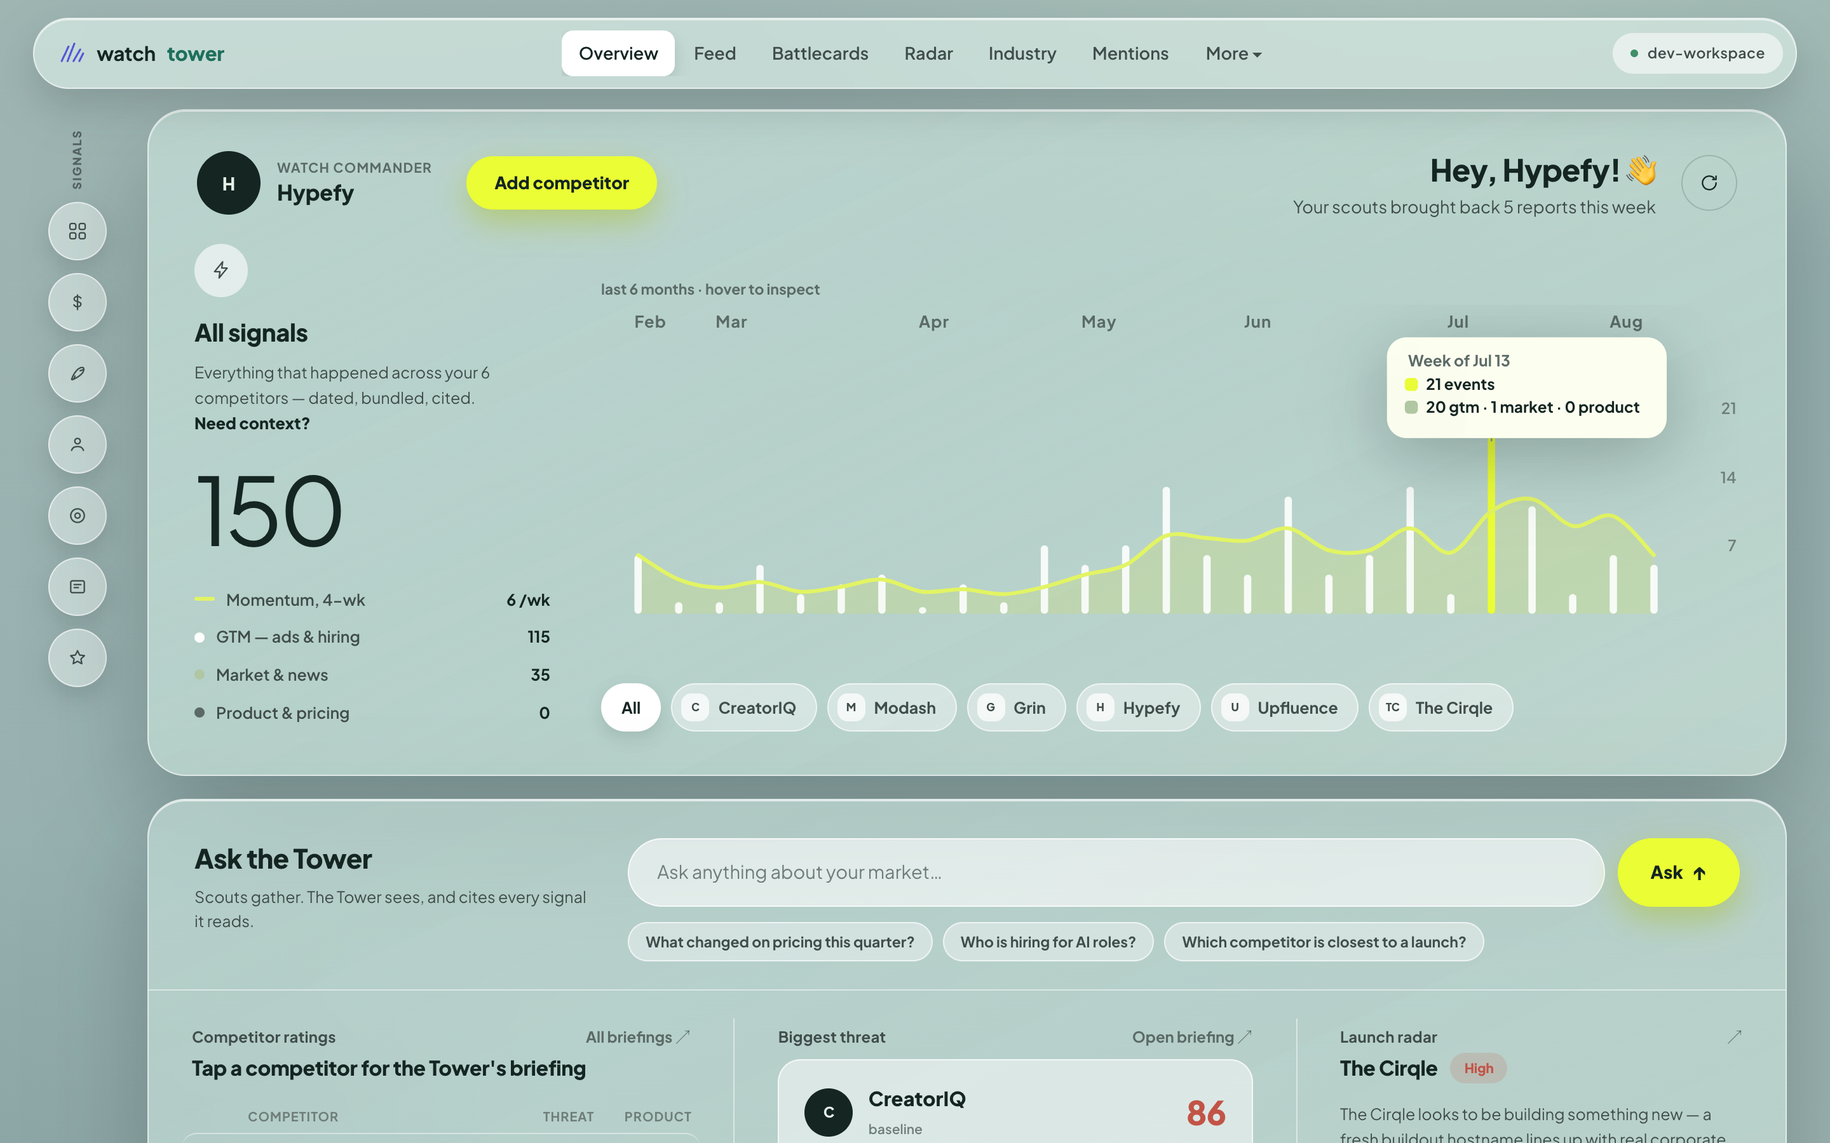
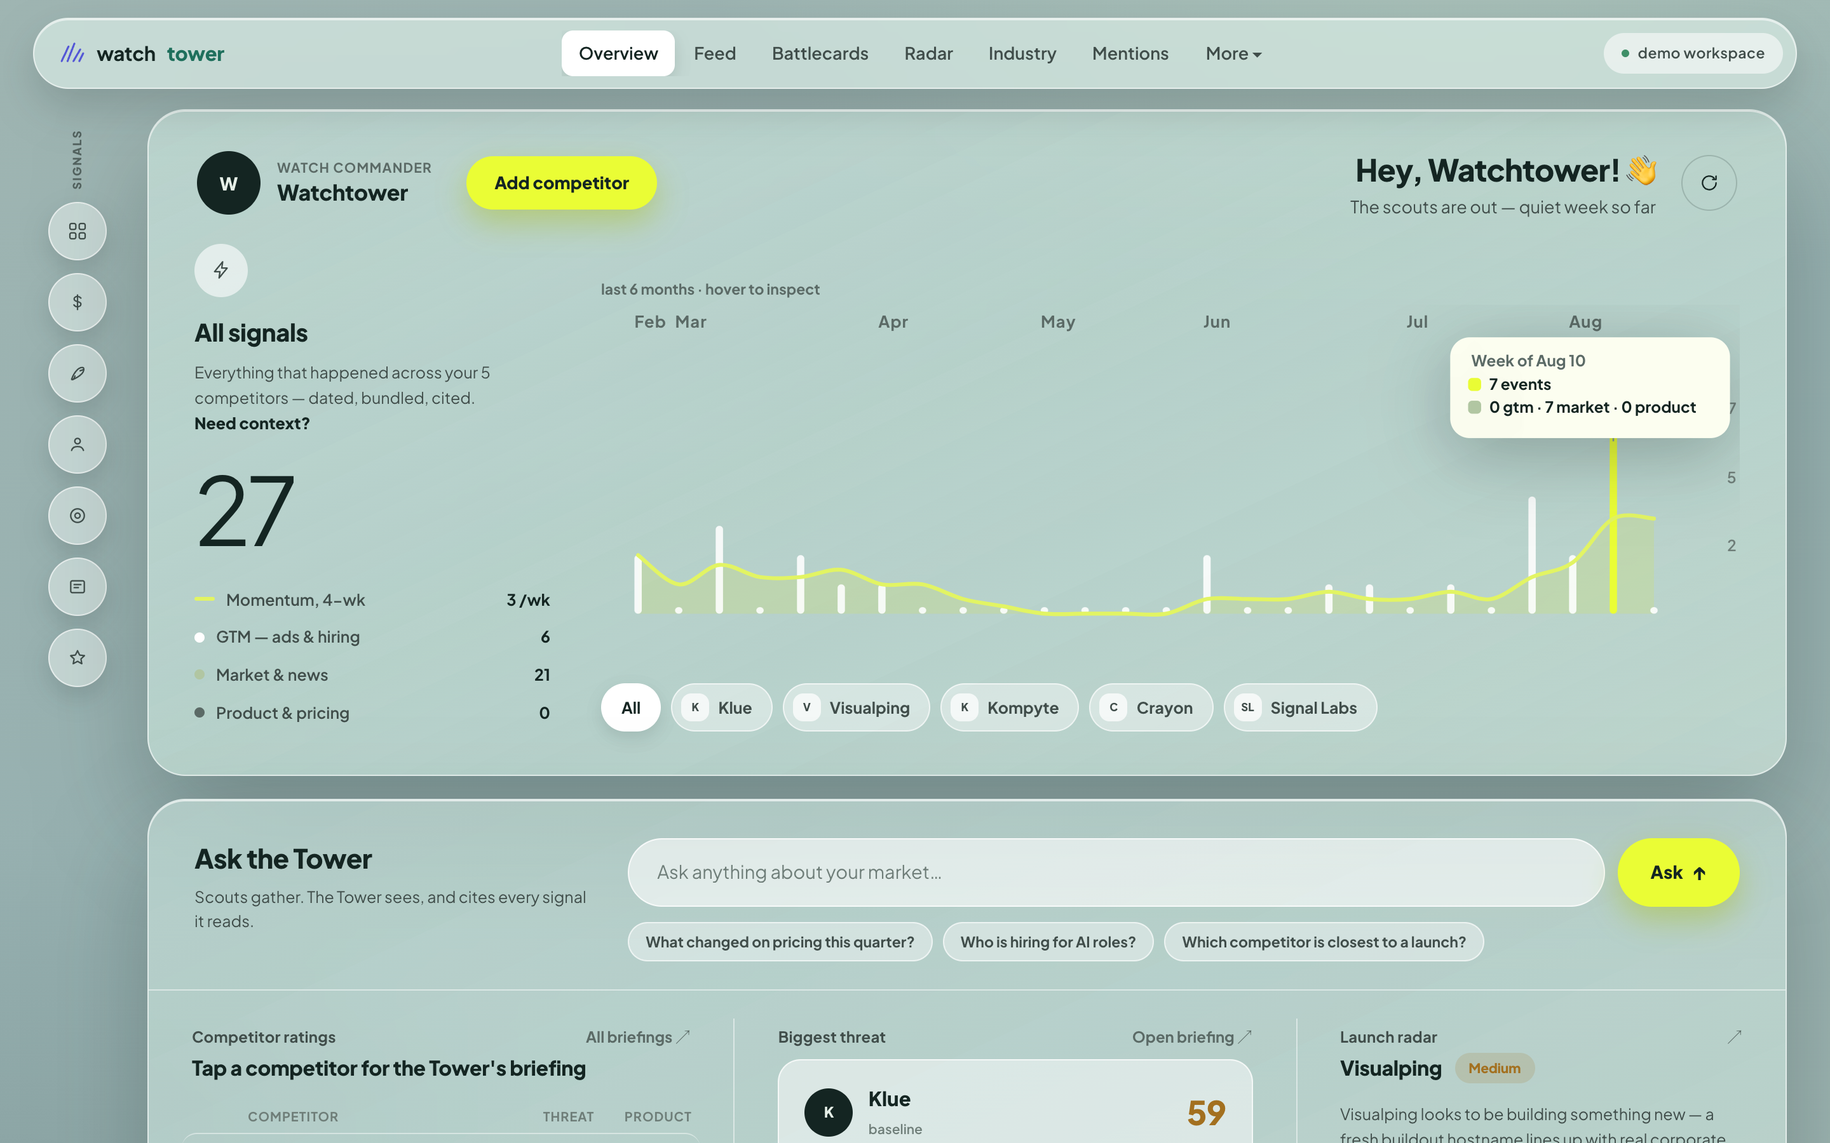
redesign: homepage leads with the product, examples are our own market
Feedback round:
- Headline: 'they' now stays with the rotating phrase (.wt-keep nowrap)
  so the line breaks BEFORE it, instead of orphaning 'they' above the
  highlight. Hero copy width pinned so the block is always two lines
  whichever phrase is showing.
- Hero dek was a near-restatement of the band heading below it. Dek is
  now the promise (one briefing, what changed, why it matters, what to
  do); the band is the coverage claim. They no longer say the same thing.
- Coverage reframed from a channel list to things that actually happen:
  'they quietly drop a price', 'they advertise a feature they have not
  launched', 'a hostname appears nobody was meant to see yet'. No
  enumerated channel inventory — deliberately, given who is reading.
- The product dashboard is now the hero image; the bespoke signal panel
  moved down to its own section where it supports the bundling point.
- Battlecards are no longer a screenshot: BattlecardDemo is an
  interactive three-card switcher (Kompyte / Signal Labs / Visualping)
  rendering the same reads the product generated for our workspace.
- Every example is now our own industry. The watch log and the proof
  beats were still the Hypefy/GRIN set; the story is now Kompyte's
  404 careers page plus its missing ad account resolving to one cause,
  which is a better demonstration anyway — it reasons from absences.
- Screenshots regenerated against the demo workspace (they were still
  Hypefy), with the demo banner suppressed in the shot.

diff --git a/app/(marketing)/page.tsx b/app/(marketing)/page.tsx
@@ -1,42 +1,44 @@
 import Link from 'next/link';
 import RotatingTail from './RotatingTail';
+import BattlecardDemo from './BattlecardDemo';
 
 export const metadata = {
   title: 'Watchtower · Know the moment your competitors move.',
   description:
-    'Watchtower reads everything your competitors do in public and tells you what it means. Actionable competitive intelligence, every fact cited. From $99/mo.',
+    'Watchtower turns everything your competitors do in public into one briefing that says what it means and what to do. Every fact cited. From $99/mo.',
 };
 
-// The watch panel in the hero. Real signal types, worded the way the feed
-// words them — this is the product's own voice, not marketing copy about it.
+// Real lines from our own workspace, worded the way the feed words them.
+// These are our actual competitors, not a borrowed example set.
 const WATCH = [
-  { t: '02:14', text: 'new hostname: launch.grin.co', tag: 'buildout' },
-  { t: '06:07', text: 'grin.co/pricing changed · self-serve tiers live', tag: 'pricing' },
-  { t: '06:11', text: 'Upfluence: 66 new ads · 43 Google · 23 LinkedIn', tag: 'ads' },
-  { t: '06:48', text: 'CreatorIQ: 25 open roles · enterprise CS cluster', tag: 'hiring' },
-  { t: '07:30', text: '“Grin is mid-transition, tearing out the old model”', tag: 'the tower', hot: true },
+  { t: '02:14', text: '255 preview hostnames observed on klue.com', tag: 'buildout' },
+  { t: '06:07', text: 'crayon.co is hiring again · 3 roles opened', tag: 'hiring' },
+  { t: '06:11', text: 'Visualping: ~11 Google ads running', tag: 'ads' },
+  { t: '06:48', text: 'kompyte.com/careers now returns 404', tag: 'signal' },
+  { t: '07:30', text: '“Kompyte is absorbed into Semrush, and running on its distribution”', tag: 'the tower', hot: true },
 ];
 
+// The story is ours, and it is built from two absences — the kind of thing a
+// feature-comparison tool would never notice.
 const BEATS = [
-  { k: '02:14', h: 'A hostname appears', p: 'launch.grin.co shows up on a public certificate log. On its own, it is noise.' },
-  { k: 'on file', h: 'Context is already there', p: 'Grin’s own January press: self-serve access, month-to-month, enterprise-only model over.' },
-  { k: '07:30', h: 'The Tower connects them', p: 'One read, written for you: Grin is mid-transition, and here is the crack to sell into.' },
+  { k: '06:48', h: 'A careers page disappears', p: 'kompyte.com/careers starts returning 404. On its own, that is nothing. Sites get reorganised.' },
+  { k: 'also', h: 'And there is no ad account', p: 'Zero advertiser accounts on Google or LinkedIn either, for a company that plainly still sells.' },
+  { k: '07:30', h: 'The Tower connects them', p: 'Two absences with one cause: Kompyte was absorbed into Semrush. You are competing with a bundle, not a roadmap.' },
 ];
 
 export default function Home() {
   return (
     <>
-      {/* ---------- hero: the sentence finishes itself ---------- */}
+      {/* ---------- hero: headline, then the product itself ---------- */}
       <section className="wt-hero">
-        <div className="wrap wt-hero-grid">
+        <div className="wrap">
           <div className="wt-hero-copy">
             <span className="wt-kicker"><i />Scouts gather. The Tower sees.</span>
             <h1 className="wt-h1">
-              Know the moment they{' '}
-              <RotatingTail />
+              Know the moment <span className="wt-keep">they <RotatingTail /></span>
             </h1>
             <p className="wt-dek">
-              Watchtower reads everything your competitors do in public, then tells you what it means.
+              One briefing every morning that says what changed, why it matters, and what to do about it. Every fact cited.
             </p>
             <div className="wt-cta">
               <Link href="/sign-up" className="btn btn-primary btn-lg">Start free</Link>
@@ -44,41 +46,46 @@ export default function Home() {
             </div>
             <p className="wt-note">From $99/mo · no card required · the demo needs no account</p>
           </div>
+        </div>
 
-          <aside className="wt-panel" aria-label="A live morning of Watchtower signals">
-            <div className="wt-panel-head">
-              <span className="mono">the watch</span>
-              <span className="wt-live"><i />live</span>
-            </div>
-            {WATCH.map((w, i) => (
-              <div className={`wt-row${w.hot ? ' hot' : ''}`} key={w.t} style={{ animationDelay: `${0.4 + i * 0.45}s` }}>
-                <span className="wt-row-t mono">{w.t}</span>
-                <span className="wt-row-x">{w.text}</span>
-                <span className="wt-row-g mono">{w.tag}</span>
-              </div>
-            ))}
-          </aside>
+        <div className="wrap wt-hero-shot">
+          <div className="wt-shot">
+            {/* eslint-disable-next-line @next/next/no-img-element */}
+            <img src="/screenshots/overview.png" alt="The Watchtower dashboard: market activity, competitor ratings, biggest threat and launch radar" />
+          </div>
         </div>
       </section>
 
-      {/* ---------- everything, said once, conversationally ---------- */}
+      {/* ---------- what it catches, as things that happen ---------- */}
       <section className="wt-band">
         <div className="wrap">
-          <h2 className="wt-band-h">
-            We watch everything they do in public. You just get told what matters.
-          </h2>
+          <h2 className="wt-band-h">You never watch a channel. You just get told what happened.</h2>
           <p className="wt-band-p">
-            Their prices, their ads, their job board, their reviews, their press, the pages they quietly
-            put up before a launch, and what their founders promised on a podcast. You never pick a channel.
+            They quietly drop a price. They start advertising a feature they have not launched yet. They post four
+            senior roles in one week. They pick up a bad review that names you. Their founder promises something
+            on a podcast. A hostname appears that nobody was meant to see yet.
           </p>
         </div>
       </section>
 
-      {/* ---------- proof: one real morning ---------- */}
+      {/* ---------- the artifact, interactive ---------- */}
+      <section className="wt-card-sec" id="platform">
+        <div className="wrap">
+          <span className="wt-eyebrow">The artifact</span>
+          <h2 className="wt-h2">Then it writes how you win.</h2>
+          <p className="wt-lede">
+            One briefing per competitor, written against your positioning. These are real cards from our own
+            workspace, watching our own market. Switch between them.
+          </p>
+          <BattlecardDemo />
+        </div>
+      </section>
+
+      {/* ---------- proof: two absences, one conclusion ---------- */}
       <section className="wt-proof" id="proof">
         <div className="wrap">
-          <span className="wt-eyebrow">A real morning</span>
-          <h2 className="wt-h2">One hostname appeared. Watchtower told the whole story.</h2>
+          <span className="wt-eyebrow">A real morning, from our own workspace</span>
+          <h2 className="wt-h2">Nothing happened. That was the story.</h2>
           <div className="wt-beats">
             {BEATS.map((b) => (
               <div className="wt-beat" key={b.h}>
@@ -94,22 +101,30 @@ export default function Home() {
         </div>
       </section>
 
-      {/* ---------- the artifact ---------- */}
-      <section className="wt-card-sec" id="platform">
-        <div className="wrap">
-          <div className="wt-card-copy">
-            <span className="wt-eyebrow">The artifact</span>
-            <h2 className="wt-h2">Then it writes how you win.</h2>
+      {/* ---------- the raw signals, further down where they belong ---------- */}
+      <section className="wt-signals">
+        <div className="wrap wt-signals-grid">
+          <div>
+            <span className="wt-eyebrow">Underneath it</span>
+            <h2 className="wt-h2">Bundled, dated, cited.</h2>
             <p className="wt-lede">
-              One briefing per competitor, written against your positioning, refreshed every morning. Your reps
-              open it and know what to say.
+              Sixty-six ads is one card, not sixty-six alerts. Five articles about the same raise is one story.
+              You read what mattered, not everything that was detected.
             </p>
           </div>
-          <div className="wt-shot">
-            {/* eslint-disable-next-line @next/next/no-img-element */}
-            <img src="/screenshots/battlecards.png" alt="A Watchtower battlecard: the Tower's read, their strengths, their vulnerabilities, and how you win" />
-          </div>
-          <p className="wt-cap">A real battlecard, from a workspace tracking five real competitors right now.</p>
+          <aside className="wt-panel" aria-label="A morning of Watchtower signals">
+            <div className="wt-panel-head">
+              <span className="mono">the watch</span>
+              <span className="wt-live"><i />live</span>
+            </div>
+            {WATCH.map((w, i) => (
+              <div className={`wt-row${w.hot ? ' hot' : ''}`} key={w.t} style={{ animationDelay: `${0.1 + i * 0.14}s` }}>
+                <span className="wt-row-t mono">{w.t}</span>
+                <span className="wt-row-x">{w.text}</span>
+                <span className="wt-row-g mono">{w.tag}</span>
+              </div>
+            ))}
+          </aside>
         </div>
       </section>
 

diff --git a/app/(marketing)/marketing.css b/app/(marketing)/marketing.css
@@ -60,8 +60,14 @@
 
 /* ---------- hero: the sentence finishes itself ---------- */
 .wt-hero{padding:56px 0 86px}
-.wt-hero-grid{display:grid;grid-template-columns:1.12fr .88fr;gap:50px;align-items:center}
-@media(max-width:940px){.wt-hero-grid{grid-template-columns:1fr;gap:44px}}
+/* Wide enough that "they <phrase>" always fits on one line, narrow enough
+   that the whole headline never collapses to one — so the block stays two
+   lines tall no matter which phrase is showing. */
+.wt-hero-copy{max-width:640px}
+.wt-hero-shot{margin-top:46px}
+/* "they <rotating phrase>" stays together, so the line breaks BEFORE "they"
+   rather than orphaning it above the highlight. */
+.wt-keep{white-space:nowrap}
 .wt-kicker{display:inline-flex;align-items:center;gap:9px;font-size:11.5px;letter-spacing:.1em;text-transform:uppercase;font-weight:800;color:var(--a-teal);background:var(--a-teal-wash);padding:7px 15px;border-radius:999px;margin-bottom:24px}
 .wt-kicker i{width:7px;height:7px;border-radius:50%;background:var(--a-teal);animation:wt-pulse 2.2s ease-out infinite}
 @keyframes wt-pulse{0%{box-shadow:0 0 0 0 rgba(30,111,92,.45)}70%{box-shadow:0 0 0 9px rgba(30,111,92,0)}100%{box-shadow:0 0 0 0 rgba(30,111,92,0)}}
@@ -74,7 +80,7 @@ h1.wt-h1{font-size:clamp(29px,4.2vw,52px);font-weight:800;letter-spacing:-.04em;
 .wt-tail-slot{display:inline}
 .wt-tail{display:inline-block;white-space:nowrap;background:linear-gradient(120deg, rgba(234,253,53,.92), rgba(226,244,99,.62));border-radius:11px;padding:0 .28em;opacity:0;transform:translateY(.16em);transition:opacity .26s ease, transform .26s ease}
 .wt-tail.on{opacity:1;transform:none}
-.wt-dek{font-size:18px;color:var(--a-mut);line-height:1.6;margin:0 0 30px;max-width:44ch}
+.wt-dek{font-size:18px;color:var(--a-mut);line-height:1.6;margin:0 0 30px;max-width:46ch}
 .wt-cta{display:flex;gap:13px;flex-wrap:wrap;margin-bottom:16px}
 .wt-note{font-size:12.5px;color:var(--a-faint);font-weight:600}
 
@@ -91,6 +97,11 @@ h1.wt-h1{font-size:clamp(29px,4.2vw,52px);font-weight:800;letter-spacing:-.04em;
 .wt-row-g{margin-left:auto;flex:none;font-size:8.5px;letter-spacing:.08em;text-transform:uppercase;font-weight:800;border-radius:999px;padding:3px 9px;background:rgba(20,37,34,.07);color:var(--a-faint)}
 .wt-row.hot .wt-row-x{color:var(--a-ink);font-weight:700}
 .wt-row.hot .wt-row-g{background:var(--a-hl);color:var(--a-ink)}
+
+/* ---------- signals, further down ---------- */
+.wt-signals{padding:0 0 96px}
+.wt-signals-grid{display:grid;grid-template-columns:1fr 1fr;gap:50px;align-items:center}
+@media(max-width:940px){.wt-signals-grid{grid-template-columns:1fr;gap:32px}}
 
 /* ---------- the one big statement ---------- */
 .wt-band{padding:16px 0 96px}
@@ -120,6 +131,35 @@ h1.wt-h1{font-size:clamp(29px,4.2vw,52px);font-weight:800;letter-spacing:-.04em;
 .wt-shot{margin-top:38px;border-radius:22px;overflow:hidden;box-shadow:0 34px 80px rgba(16,30,28,.28)}
 .wt-shot img{display:block;width:100%;height:auto}
 .wt-cap{text-align:center;font-size:12.5px;color:var(--a-faint);margin:16px 0 0}
+
+/* ---------- interactive battlecard ---------- */
+.bcd{margin-top:36px}
+.bcd-tabs{display:flex;gap:8px;flex-wrap:wrap;margin-bottom:16px}
+.bcd-tabs button{font:inherit;font-size:13.5px;font-weight:700;color:var(--a-mut);cursor:pointer;
+  background:rgba(255,255,255,.45);border:1px solid rgba(255,255,255,.6);border-radius:999px;padding:9px 20px;
+  transition:background .14s,color .14s,transform .14s}
+.bcd-tabs button:hover{background:rgba(255,255,255,.8);color:var(--a-ink)}
+.bcd-tabs button.on{background:var(--a-ink);color:#eef6ee;border-color:transparent}
+.bcd-card{background:var(--a-glass);backdrop-filter:var(--a-blur);-webkit-backdrop-filter:var(--a-blur);
+  border-radius:26px;padding:30px 32px;box-shadow:var(--a-shadow)}
+.bcd-top{display:flex;align-items:center;gap:14px;margin-bottom:18px}
+.bcd-top h4{font-size:22px;font-weight:800;letter-spacing:-.02em;margin:0}
+.bcd-threat{margin-left:auto;font-size:12px;font-weight:800;color:var(--a-mut);background:rgba(255,255,255,.6);border-radius:999px;padding:5px 13px}
+.bcd-read{background:linear-gradient(135deg, rgba(226,244,99,.30), rgba(255,255,255,.42));border-radius:20px;padding:22px 24px}
+.bcd-tag{display:inline-block;font-family:var(--mono, monospace);font-size:10px;letter-spacing:.1em;text-transform:uppercase;
+  color:var(--a-teal);font-weight:800;margin-bottom:8px}
+.bcd-read b{display:block;font-size:17px;font-weight:800;letter-spacing:-.015em;margin-bottom:8px}
+.bcd-read p{font-size:14px;color:var(--a-mut);line-height:1.65;margin:0 0 14px}
+.bcd-ev{display:flex;flex-direction:column;gap:7px}
+.bcd-ev span{font-size:12.5px;color:var(--a-mut);background:rgba(255,255,255,.55);border-radius:9px;padding:7px 12px}
+.bcd-ev b{display:inline;font-size:12.5px;color:var(--a-ink);margin-right:6px}
+.bcd-cols{display:grid;grid-template-columns:1.15fr .85fr;gap:34px;margin-top:22px}
+@media(max-width:760px){.bcd-cols{grid-template-columns:1fr;gap:22px}}
+.bcd-h{display:block;font-size:10.5px;letter-spacing:.1em;text-transform:uppercase;color:var(--a-teal);font-weight:800;margin-bottom:11px}
+.bcd-cols ul{list-style:none;margin:0;padding:0}
+.bcd-cols li{font-size:13.5px;color:var(--a-mut);line-height:1.55;padding:0 0 10px 16px;position:relative}
+.bcd-cols li::before{content:"";position:absolute;left:0;top:7px;width:5px;height:5px;border-radius:50%;background:var(--a-teal)}
+.bcd-ask{font-size:13.5px;color:var(--a-ink);line-height:1.6;margin:0;font-style:italic}
 
 /* ---------- pricing ---------- */
 .wt-pricing{padding:0 0 96px}

diff --git a/app/(marketing)/BattlecardDemo.tsx b/app/(marketing)/BattlecardDemo.tsx
@@ -1,0 +1,102 @@
+'use client';
+import { useState } from 'react';
+
+// A real battlecard, switchable, using the same content the product actually
+// generated for our own workspace (scripts/reads.ts + scripts/battlecards.ts).
+// A screenshot of one card proves less than three cards a visitor can move
+// between and read — and every line here is in the live demo too.
+const CARDS = [
+  {
+    key: 'kompyte',
+    name: 'Kompyte',
+    threat: 49,
+    hook: 'Absorbed into Semrush, and running on its distribution',
+    read: 'Kompyte no longer behaves like an independent company, and the collection makes that visible in a way a feature comparison would not: no careers page of its own (it 404s), and no advertiser account, because acquisition means the spend runs under Semrush. You are not competing with Kompyte’s roadmap, you are competing with Semrush’s bundle and its existing seats.',
+    evidence: [
+      ['Absorbed', 'kompyte.com/careers returns 404 · zero own ad accounts'],
+      ['Now positioned as', '“Kompyte by Semrush”'],
+    ],
+    win: [
+      'Sell depth against breadth: a suite module is rarely the best tool in its category.',
+      'Target teams that do not already own Semrush, where the bundle is worth nothing.',
+    ],
+    ask: '“Are you buying this because it is the best competitive intelligence you evaluated, or because it was already in the contract?”',
+  },
+  {
+    key: 'signal-labs',
+    name: 'Signal Labs',
+    threat: 32,
+    hook: 'Closest on promise, furthest on pricing',
+    read: 'The nearest competitor in the set, and the overlap is not accidental: CIx sells source-linked citations on every claim, battlecards as the artifact, and an ask-the-AI chat. The divergence is the buying motion. Team pricing is custom, scoped on a 30-minute call, and their own page concedes the friction by promising you will know the price before the trial starts.',
+    evidence: [
+      ['Pricing motion', 'Free = 1 competitor · Team = quoted on a call'],
+      ['Coverage', '0 qualifying news articles — real for a company this young'],
+    ],
+    win: [
+      'Publish the number. They gate Team pricing on a call; we do not.',
+      'Sell the full competitive set from day one. One competitor is not intelligence.',
+    ],
+    ask: '“How many competitors do you actually need to watch, and what does it cost once you go past the first one?”',
+  },
+  {
+    key: 'visualping',
+    name: 'Visualping',
+    threat: 54,
+    hook: 'Coming up from the bottom, not down from enterprise',
+    read: 'The only competitor here that arrives from underneath. Its press history is consumer utility and its product news is extension-level. The threat is not that it wins enterprise evaluations; it is that it makes “just watch their pricing page” free and obvious, and anchors what buyers think this should cost before they reach a real vendor.',
+    evidence: [
+      ['Product direction', 'One-click AI monitoring shipped to the Chrome extension'],
+      ['Paid presence', '~11 Google ads — most aggressive in the set for its size'],
+    ],
+    win: [
+      'Draw the line between a change alert and a briefing. That is the whole difference.',
+      'Do not compete on price with a freemium utility. Compete on what happens after the alert.',
+    ],
+    ask: '“When their tool says a pricing page changed, who works out what it means and what you do next?”',
+  },
+];
+
+export default function BattlecardDemo() {
+  const [i, setI] = useState(0);
+  const c = CARDS[i];
+  return (
+    <div className="bcd">
+      <div className="bcd-tabs" role="tablist">
+        {CARDS.map((x, n) => (
+          <button key={x.key} role="tab" aria-selected={n === i} className={n === i ? 'on' : ''} onClick={() => setI(n)}>
+            {x.name}
+          </button>
+        ))}
+      </div>
+
+      <div className="bcd-card">
+        <div className="bcd-top">
+          <h4>{c.name}</h4>
+          <span className="bcd-threat">Threat {c.threat}</span>
+        </div>
+
+        <div className="bcd-read">
+          <span className="bcd-tag">The Tower&apos;s read</span>
+          <b>{c.hook}</b>
+          <p>{c.read}</p>
+          <div className="bcd-ev">
+            {c.evidence.map(([k, v]) => (
+              <span key={k}><b>{k}</b> {v}</span>
+            ))}
+          </div>
+        </div>
+
+        <div className="bcd-cols">
+          <div>
+            <span className="bcd-h">How we win</span>
+            <ul>{c.win.map((w) => <li key={w}>{w}</li>)}</ul>
+          </div>
+          <div>
+            <span className="bcd-h">Ask in discovery</span>
+            <p className="bcd-ask">{c.ask}</p>
+          </div>
+        </div>
+      </div>
+    </div>
+  );
+}
